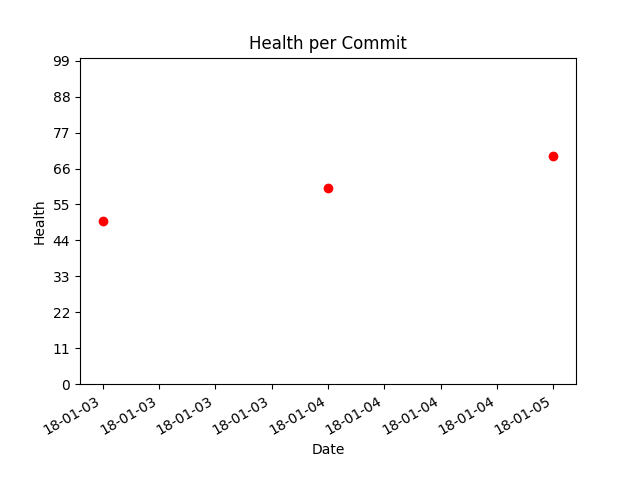
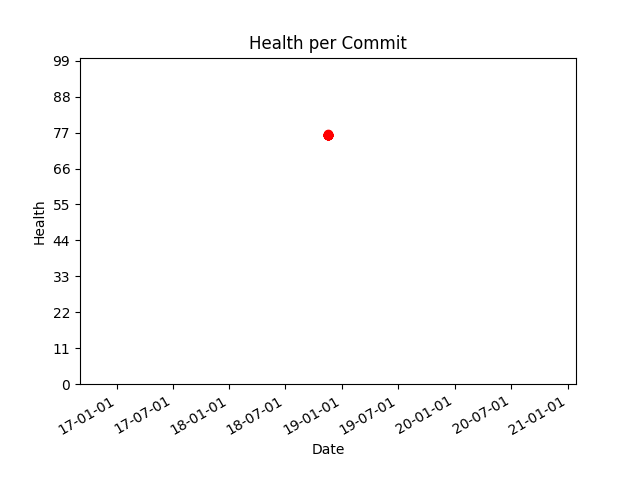
Health graph working

diff --git a/GUI/screen_details.py b/GUI/screen_details.py
@@ -28,13 +28,16 @@ class MainWindow(Gtk.Window):
 
 		healths = []#[50,60,70]
 		myDates = []#[datetime(2018, 1, i + 3) for i in range(3)]
-		results = subprocess.check_output(['python3', '../Sawtooth/bin/health.py', '--type', 'health', '--url','http://127.0.0.1:'+str(self.api)])
-		results = results.replace("'","\"")
+		results = subprocess.check_output(['python3', '../Sawtooth/bin/health.py', 'list', '--type', 'health', '--url','http://127.0.0.1:'+str(self.api)])
+		results = results.decode('utf-8').replace("'","\"").replace('": b"','": "').strip()
 		dictionary = json.loads(results)
 		for value in dictionary.values():
-			for transaction_name,sender_id,health,status,time in value:
-				healths.append(health)
-		myDates = [datetime(2018, 1, i + 3) for i in range(len(healths))]
+			data = value.split(',')#transaction_name,sender_id,health,status,time
+			health = data[2]
+			date = data[4]
+			healths.append(float(health))
+			myDates.append(datetime(int(date[0:4]),int(date[4:6]),int(date[6:8])))#TODO update to new date format?
+			print(health,date)
 
 		fig, ax = plt.subplots()
 		ax.plot(myDates,healths,'ro')

diff --git a/Sawtooth/families/health/client/health_client.py b/Sawtooth/families/health/client/health_client.py
@@ -206,7 +206,7 @@ class HealthClient:
                         if transaction_type == txn_type:
                             transactions[entry["header_signature"]] = base64.b64decode(
                                 entry["payload"])
-                    except LookupError:
+                    except:
                         pass
             return transactions
         except BaseException:
@@ -351,3 +351,4 @@ class HealthClient:
             header_signature=signature)
 
         return BatchList(batches=[batch])
+
